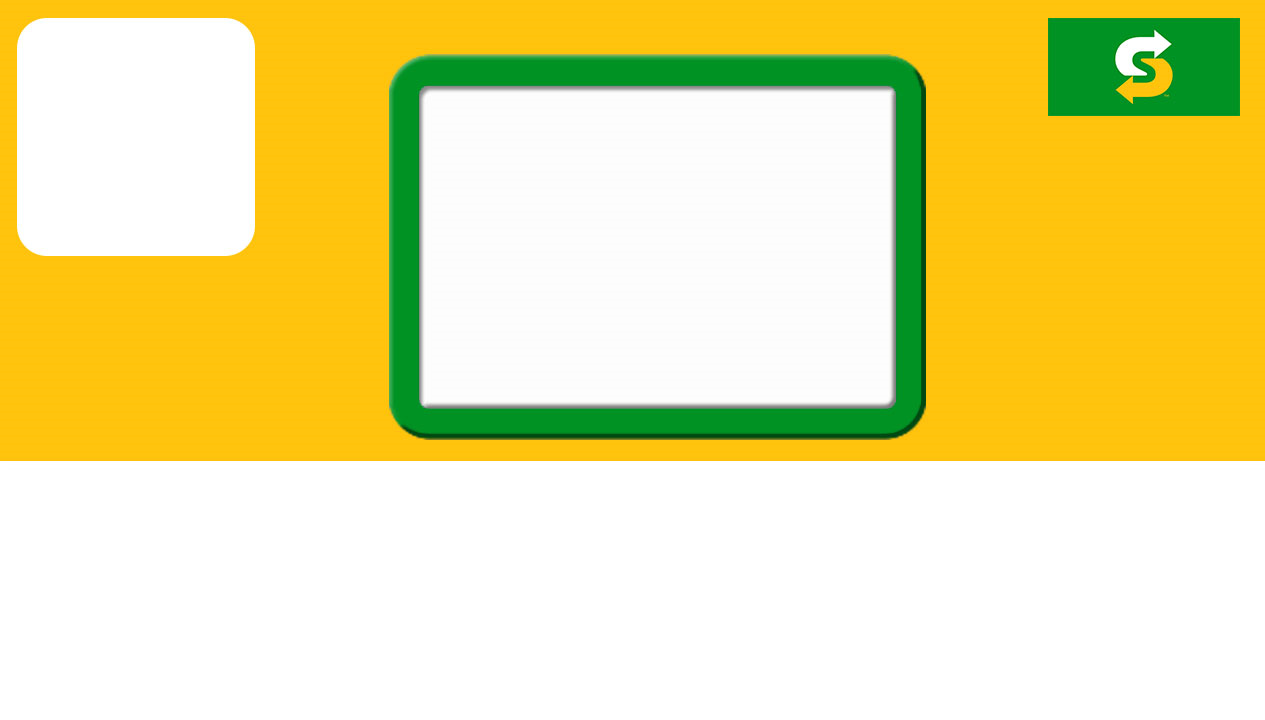
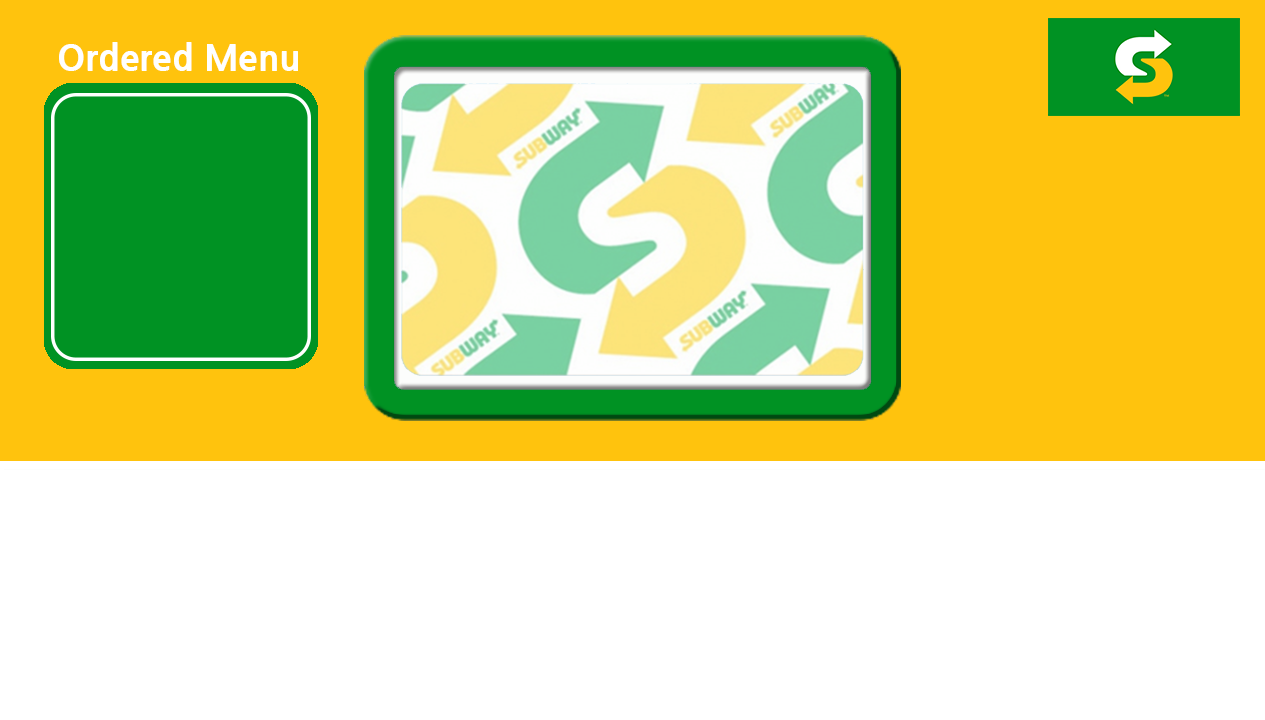
phase랑 게임씬 변경
-phase 추가
-게임씬 배경&재료 위치 변경

Changed region(s): [[0.0, 0.0, 0.7399, 0.6111]]

diff --git a/src/GameScreen.java b/src/GameScreen.java
@@ -23,12 +23,12 @@ public class GameScreen extends JPanel implements KeyListener,Runnable {
 	private static final int exSandwichWidth = 200; //310, 314, 예시 샌드위치의 재료 넓이
 	private static final int exSandwichHeight = 10; //323, 예시 샌드위치의 재료 높이
 	
-	private static final int SandwichIngredientLeftSpace = 180; //206, 207, 215, 216, 372, 383, 388 샌드위치 메뉴 왼쪽 여백
-	private static final int SandwichIngredientTopSpace = 510; //208, 217, 372, 383, 388, 샌드위치 메뉴 위쪽 여백
-	private static final int SandwichIngredientItemSpace = 130; //206, 207, 215, 216, 372, 383, 388, 샌드위치 메뉴 아이템 여백
+	private static final int SandwichIngredientLeftSpace = 150; //206, 207, 215, 216, 372, 383, 388 샌드위치 메뉴 왼쪽 여백
+	private static final int SandwichIngredientTopSpace = 500; //208, 217, 372, 383, 388, 샌드위치 메뉴 위쪽 여백
+	private static final int SandwichIngredientItemSpace = 150; //206, 207, 215, 216, 372, 383, 388, 샌드위치 메뉴 아이템 여백
 
-	private static final int SandwichIngredientItemWidth = 120; //207, 216, 372, 383, 샌드위치 메뉴 아이템 넓이
-	private static final int SandwichIngredientItemHeight = 120; //208, 217, 372, 383, 샌드위치 메뉴 아이템 높이
+	private static final int SandwichIngredientItemWidth = 150; //207, 216, 372, 383, 샌드위치 메뉴 아이템 넓이
+	private static final int SandwichIngredientItemHeight = 150; //208, 217, 372, 383, 샌드위치 메뉴 아이템 높이
 	
 	private static final int timerLeftSpace = 280; //410, 412, 타이머 왼쪽 여백
 	private static final int timerTopSpace = 320; //410, 412, 타이머 위쪽 여백
@@ -324,15 +324,11 @@ public class GameScreen extends JPanel implements KeyListener,Runnable {
 		
 		exampleBurgerPositionX = (this.getWidth()/10) - (exSandwichWidth/2);
 		
-		g.setColor(Color.BLACK);
-		
-		g.drawRect(	exampleBurgerPositionX-20, 10, exSandwichWidth + 60, 260);
-		
 		if(maxExSandwichNumber > 0) {
 			for(int i=0; i<maxExSandwichNumber; i++){
 
 				ImageIcon burgerIngredientImage = new ImageIcon("resource/menuItem/" + sandwichIngredientName[exSandwich[i]] + ".png");
-				g.drawImage(burgerIngredientImage.getImage(), 10, exSandwichBottomSpace - (i*exSandwichHeight),this);
+				g.drawImage(burgerIngredientImage.getImage(), 50, 90,this);
 				
 			}
 		}
@@ -364,7 +360,7 @@ public class GameScreen extends JPanel implements KeyListener,Runnable {
 			
 				//g.setColor(burgerColor[ingredientNumber]);
 				ImageIcon burgerIngredientImage = new ImageIcon("resource/menuItem/" + sandwichIngredientName[ingredientNumber] + ".png");
-				g.drawImage(burgerIngredientImage.getImage(), 520, 130, this);
+				g.drawImage(burgerIngredientImage.getImage(), 520, 120, this);
 				//g.fillRect(userBurgerPositionX, ingredientPositionY, userBurgerWidth, userBurgerHeight);
 				
 			}
@@ -373,12 +369,10 @@ public class GameScreen extends JPanel implements KeyListener,Runnable {
 	
 	private void displayMenu(Graphics g) {
 
-		if(phase==1){
+		if(phase==1){//빵 고르기
 			for(int i=1; i<=5; i++) {//maxSancwichMenuNumber
-				g.setColor(Color.BLACK);
-				g.drawRect(SandwichIngredientLeftSpace + ((i-1)*SandwichIngredientItemSpace), SandwichIngredientTopSpace, SandwichIngredientItemWidth, SandwichIngredientItemHeight);
-				//drawRect(사각형선만 그림) - 시작x, 시작y, width, height
-				if(i==selectedSandwichMenuNumber) {
+
+				if(i==selectedSandwichMenuNumber) {//이
 					if(i==maxSancwichMenuNumber)
 						g.setColor(Color.WHITE); //제출메뉴
 					else
@@ -390,14 +384,12 @@ public class GameScreen extends JPanel implements KeyListener,Runnable {
 				}
 				ImageIcon menuItemImage = new ImageIcon(sandwichIngredientImgPath[i]);
 				//g.drawImage(menuItemImage.getImage(), this.getWidth()/2, burgerMenuTopSide, this);
-				g.drawImage(menuItemImage.getImage(), SandwichIngredientLeftSpace + ((i-1)*SandwichIngredientItemSpace), SandwichIngredientTopSpace, 120, 120,this);
+				g.drawImage(menuItemImage.getImage(), SandwichIngredientLeftSpace + ((i-1)*SandwichIngredientItemSpace), SandwichIngredientTopSpace, 150, 150,this);
 			}
 		}
-		else if(phase==2){
+		else if(phase==2){//치즈 고르기
 			for(int i=1; i<=3; i++) {//maxSancwichMenuNumber
-				g.setColor(Color.BLACK);
-				g.drawRect(SandwichIngredientLeftSpace + ((i-1)*SandwichIngredientItemSpace), SandwichIngredientTopSpace, SandwichIngredientItemWidth, SandwichIngredientItemHeight);
-				//drawRect(사각형선만 그림) - 시작x, 시작y, width, height
+
 				if(i==selectedSandwichMenuNumber) {
 					if(i==maxSancwichMenuNumber)
 						g.setColor(Color.WHITE); //제출메뉴
@@ -410,14 +402,12 @@ public class GameScreen extends JPanel implements KeyListener,Runnable {
 				}
 				ImageIcon menuItemImage = new ImageIcon(sandwichIngredientImgPath[i+5]);
 				//g.drawImage(menuItemImage.getImage(), this.getWidth()/2, burgerMenuTopSide, this);
-				g.drawImage(menuItemImage.getImage(), SandwichIngredientLeftSpace + ((i-1)*SandwichIngredientItemSpace), SandwichIngredientTopSpace, 120, 120,this);
+				g.drawImage(menuItemImage.getImage(), SandwichIngredientLeftSpace + ((i-1)*SandwichIngredientItemSpace), SandwichIngredientTopSpace, 150, 150,this);
 			}
 		}
-		else if(phase==3){
+		else if(phase==3){//채소 고르기 (v1~v3)
 			for(int i=1; i<=3; i++) {//maxSancwichMenuNumber
-				g.setColor(Color.BLACK);
-				g.drawRect(SandwichIngredientLeftSpace + ((i-1)*SandwichIngredientItemSpace), SandwichIngredientTopSpace, SandwichIngredientItemWidth, SandwichIngredientItemHeight);
-				//drawRect(사각형선만 그림) - 시작x, 시작y, width, height
+
 				if(i==selectedSandwichMenuNumber) {
 					if(i==maxSancwichMenuNumber)
 						g.setColor(Color.WHITE); //제출메뉴
@@ -430,14 +420,12 @@ public class GameScreen extends JPanel implements KeyListener,Runnable {
 				}
 				ImageIcon menuItemImage = new ImageIcon(sandwichIngredientImgPath[i+8]);
 				//g.drawImage(menuItemImage.getImage(), this.getWidth()/2, burgerMenuTopSide, this);
-				g.drawImage(menuItemImage.getImage(), SandwichIngredientLeftSpace + ((i-1)*SandwichIngredientItemSpace), SandwichIngredientTopSpace, 120, 120,this);
+				g.drawImage(menuItemImage.getImage(), SandwichIngredientLeftSpace + ((i-1)*SandwichIngredientItemSpace), SandwichIngredientTopSpace, 150, 150,this);
 			}
 		}
-		else if(phase==4){
+		else if(phase==4){//채소 고르기 (s1~s5)
 			for(int i=1; i<=5; i++) {//maxSancwichMenuNumber
-				g.setColor(Color.BLACK);
-				g.drawRect(SandwichIngredientLeftSpace + ((i-1)*SandwichIngredientItemSpace), SandwichIngredientTopSpace, SandwichIngredientItemWidth, SandwichIngredientItemHeight);
-				//drawRect(사각형선만 그림) - 시작x, 시작y, width, height
+
 				if(i==selectedSandwichMenuNumber) {
 					if(i==maxSancwichMenuNumber)
 						g.setColor(Color.WHITE); //제출메뉴
@@ -450,14 +438,30 @@ public class GameScreen extends JPanel implements KeyListener,Runnable {
 				}
 				ImageIcon menuItemImage = new ImageIcon(sandwichIngredientImgPath[i+11]);
 				//g.drawImage(menuItemImage.getImage(), this.getWidth()/2, burgerMenuTopSide, this);
-				g.drawImage(menuItemImage.getImage(), SandwichIngredientLeftSpace + ((i-1)*SandwichIngredientItemSpace), SandwichIngredientTopSpace, 120, 120,this);
+				g.drawImage(menuItemImage.getImage(), SandwichIngredientLeftSpace + ((i-1)*SandwichIngredientItemSpace), SandwichIngredientTopSpace, 150, 150,this);
 			}
 		}
-		else if(phase==5){
+		else if(phase==5){//채소 고르기 (s1~s5)
+			for(int i=1; i<=5; i++) {//maxSancwichMenuNumber
+
+				if(i==selectedSandwichMenuNumber) {
+					if(i==maxSancwichMenuNumber)
+						g.setColor(Color.WHITE); //제출메뉴
+					else
+						g.setColor(sandwichColor[selectedSandwichMenuNumber]);
+
+					//ImageIcon menuItemImage = new ImageIcon(burgerMenuItemImagePath[i] + ".png");
+					//g.drawImage(menuItemImage.getImage(), burgerManuLeftSide + ((i-1)*burgerMenuItemGap), burgerMenuTopSide,this);
+					g.fillRect(SandwichIngredientLeftSpace + ((i-1)*SandwichIngredientItemSpace), SandwichIngredientTopSpace, SandwichIngredientItemWidth, SandwichIngredientItemHeight);
+				}
+				ImageIcon menuItemImage = new ImageIcon(sandwichIngredientImgPath[i+11]);
+				//g.drawImage(menuItemImage.getImage(), this.getWidth()/2, burgerMenuTopSide, this);
+				g.drawImage(menuItemImage.getImage(), SandwichIngredientLeftSpace + ((i-1)*SandwichIngredientItemSpace), SandwichIngredientTopSpace, 150, 150,this);
+			}
+		}
+		else if(phase==6){//고기 고르기
 			for(int i=1; i<=4; i++) {//maxSancwichMenuNumber
-				g.setColor(Color.BLACK);
-				g.drawRect(SandwichIngredientLeftSpace + ((i-1)*SandwichIngredientItemSpace), SandwichIngredientTopSpace, SandwichIngredientItemWidth, SandwichIngredientItemHeight);
-				//drawRect(사각형선만 그림) - 시작x, 시작y, width, height
+
 				if(i==selectedSandwichMenuNumber) {
 					if(i==maxSancwichMenuNumber)
 						g.setColor(Color.WHITE); //제출메뉴
@@ -470,14 +474,12 @@ public class GameScreen extends JPanel implements KeyListener,Runnable {
 				}
 				ImageIcon menuItemImage = new ImageIcon(sandwichIngredientImgPath[i+16]);
 				//g.drawImage(menuItemImage.getImage(), this.getWidth()/2, burgerMenuTopSide, this);
-				g.drawImage(menuItemImage.getImage(), SandwichIngredientLeftSpace + ((i-1)*SandwichIngredientItemSpace), SandwichIngredientTopSpace, 120, 120,this);
+				g.drawImage(menuItemImage.getImage(), SandwichIngredientLeftSpace + ((i-1)*SandwichIngredientItemSpace), SandwichIngredientTopSpace, 150, 150,this);
 			}
 		}
-		else{ //phase==6인 경우
+		else if(phase==7){ //소스고르기
 			for(int i=1; i<=4; i++) {//maxSancwichMenuNumber
-				g.setColor(Color.BLACK);
-				g.drawRect(SandwichIngredientLeftSpace + ((i-1)*SandwichIngredientItemSpace), SandwichIngredientTopSpace, SandwichIngredientItemWidth, SandwichIngredientItemHeight);
-				//drawRect(사각형선만 그림) - 시작x, 시작y, width, height
+
 				if(i==selectedSandwichMenuNumber) {
 					if(i==4)
 						g.setColor(Color.WHITE); //제출메뉴
@@ -490,7 +492,26 @@ public class GameScreen extends JPanel implements KeyListener,Runnable {
 				}
 				ImageIcon menuItemImage = new ImageIcon(sandwichIngredientImgPath[i+20]);
 				//g.drawImage(menuItemImage.getImage(), this.getWidth()/2, burgerMenuTopSide, this);
-				g.drawImage(menuItemImage.getImage(), SandwichIngredientLeftSpace + ((i-1)*SandwichIngredientItemSpace), SandwichIngredientTopSpace, 120, 120,this);
+				g.drawImage(menuItemImage.getImage(), SandwichIngredientLeftSpace + ((i-1)*SandwichIngredientItemSpace), SandwichIngredientTopSpace, 150, 150,this);
+			}
+			phase=1; //다시 빵부터 시작
+		}
+		else{ //phase=8인 경우, finish 누르는 거를 위해서ㅎㅎ
+			for(int i=1; i<=4; i++) {//maxSancwichMenuNumber
+
+				if(i==selectedSandwichMenuNumber) {
+					if(i==4)
+						g.setColor(Color.WHITE); //제출메뉴
+					else
+						g.setColor(sandwichColor[selectedSandwichMenuNumber]);
+
+					//ImageIcon menuItemImage = new ImageIcon(burgerMenuItemImagePath[i] + ".png");
+					//g.drawImage(menuItemImage.getImage(), burgerManuLeftSide + ((i-1)*burgerMenuItemGap), burgerMenuTopSide,this);
+					g.fillRect(SandwichIngredientLeftSpace + ((i-1)*SandwichIngredientItemSpace), SandwichIngredientTopSpace, SandwichIngredientItemWidth, SandwichIngredientItemHeight);
+				}
+				ImageIcon menuItemImage = new ImageIcon(sandwichIngredientImgPath[i+20]);
+				//g.drawImage(menuItemImage.getImage(), this.getWidth()/2, burgerMenuTopSide, this);
+				g.drawImage(menuItemImage.getImage(), SandwichIngredientLeftSpace + ((i-1)*SandwichIngredientItemSpace), SandwichIngredientTopSpace, 150, 150,this);
 			}
 			phase=1; //다시 빵부터 시작
 		}
